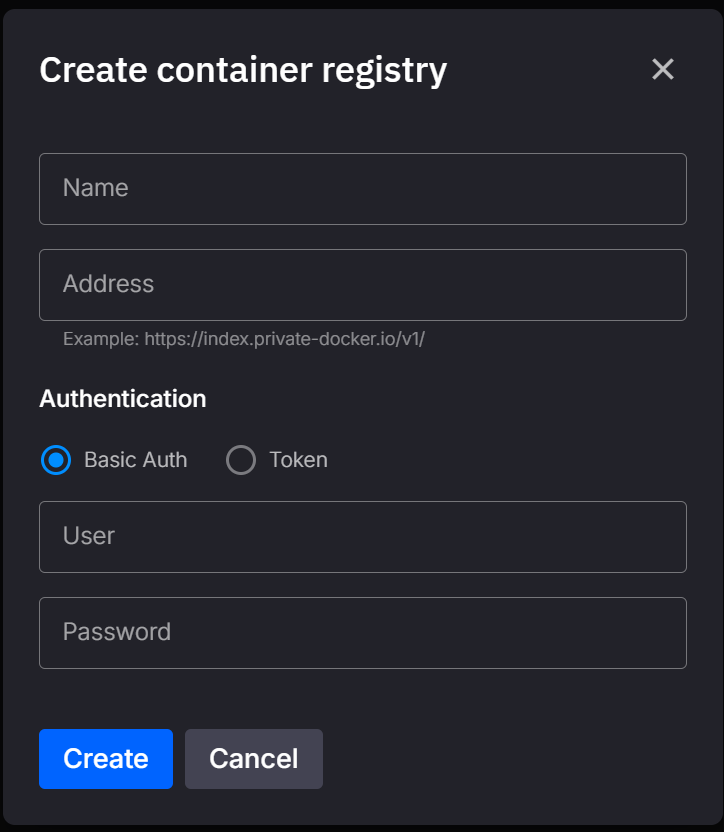
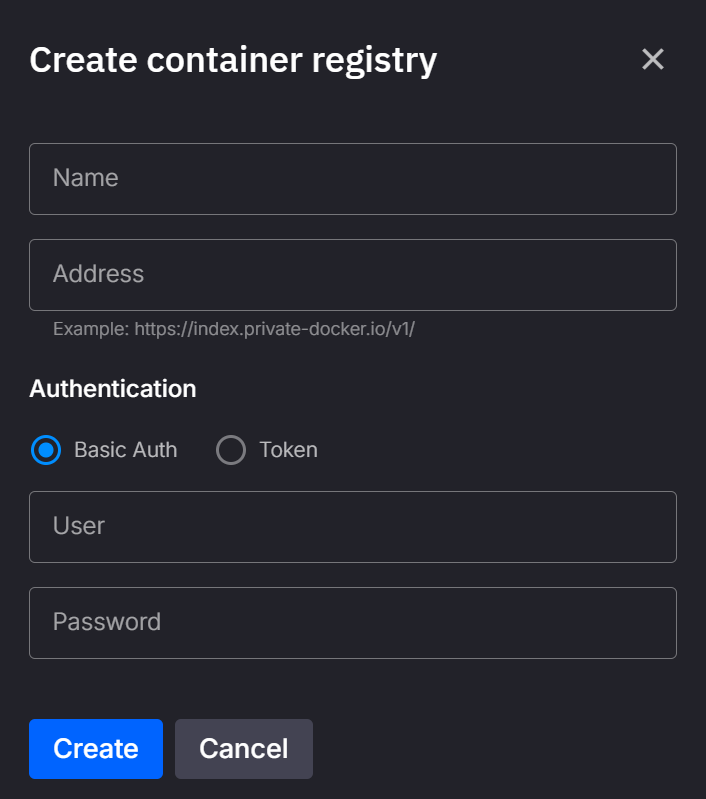
changing size

diff --git a/docs/quix-cloud/private-container-registries.md b/docs/quix-cloud/private-container-registries.md
@@ -13,7 +13,7 @@ To configure these credentials, navigate to your organization's Settings page an
 
 ## Required Information:
 
-![Create](../images/container-registies/container-registries-create.png)
+![Create](../images/container-registies/container-registries-create.png){width=60%}
 
 Provide the following details when configuring credentials:
 
